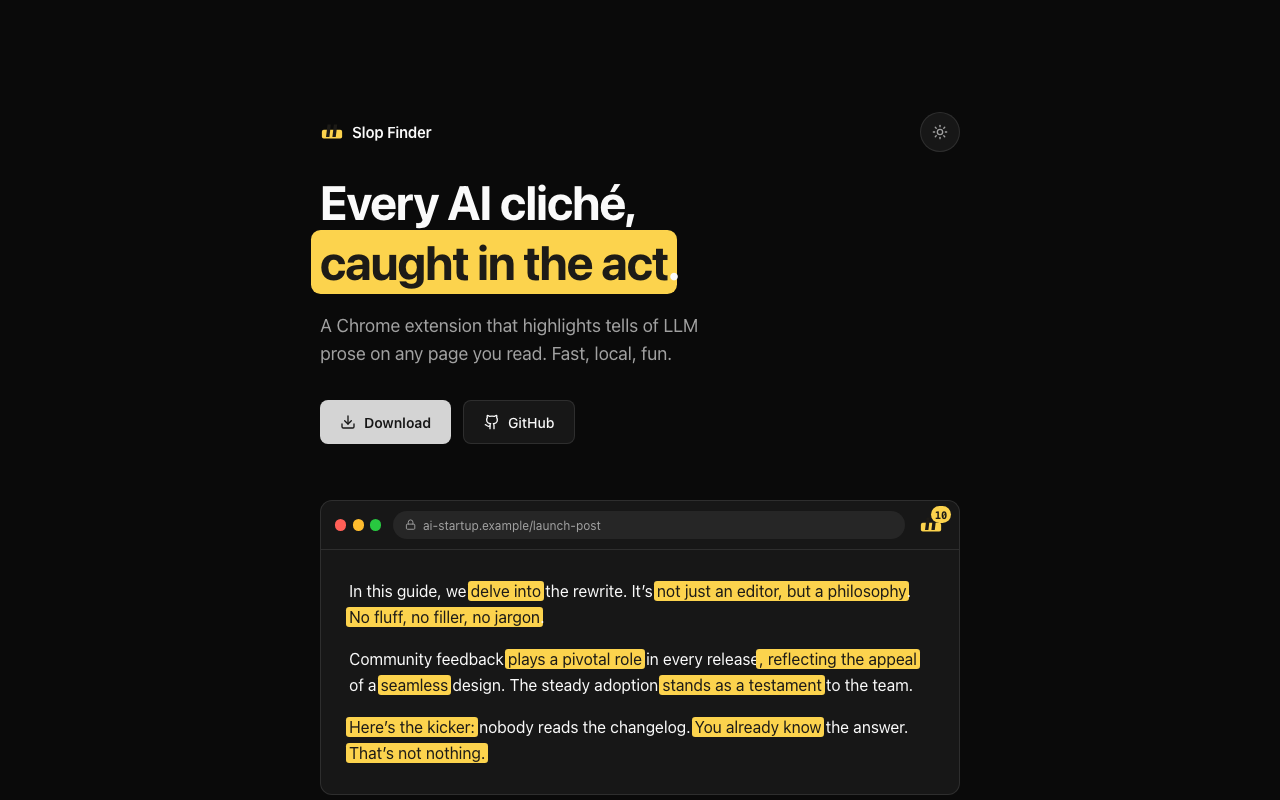
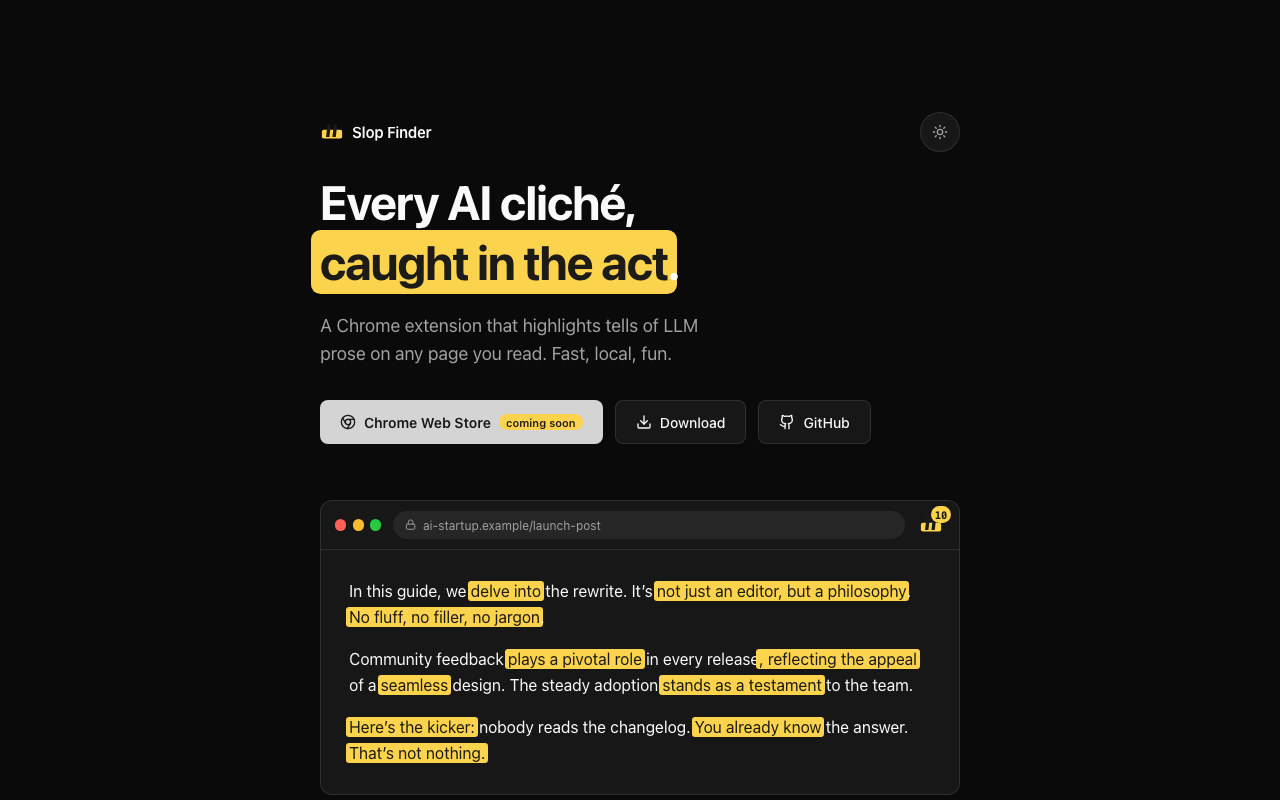
Add Chrome Web Store CTA (temporary preview link, 'coming soon' chip)
Store button becomes the primary CTA with the Chrome icon and a yellow
coming-soon chip; Download drops to secondary alongside GitHub. Swap in
the public listing URL and remove the chip once the listing is live
(tracked in TODO.md). Store landing screenshots regenerated.

Changed region(s): [[0.25, 0.5, 0.5625, 0.5625], [0.5938, 0.5, 0.6562, 0.5625]]

diff --git a/site/index.html b/site/index.html
@@ -195,6 +195,15 @@
     font-weight: 600;
     transition: opacity 0.15s;
   }
+  .cta-chip {
+    background: #fcd34d;
+    color: #1d1b17;
+    font-size: 0.6875rem;
+    font-weight: 600;
+    padding: 0.1rem 0.45rem;
+    border-radius: 9999px;
+    white-space: nowrap;
+  }
   .cta-primary:hover { opacity: 0.9; }
   .cta-secondary {
     border: 1px solid var(--border);
@@ -333,7 +342,14 @@
       you read. Fast, local, fun.
     </p>
     <div class="ctas">
-      <a class="cta cta-primary" href="downloads/slopfinder-extension.zip" download>
+      <!-- Temporary preview link — swap for the public store URL and drop
+           the "coming soon" chip once the listing is live. -->
+      <a class="cta cta-primary" href="https://chromewebstore.google.com/detail/mkgdglaifmndcicghpnkkdmjafepiibc/preview?hl=en&authuser=0" target="_blank" rel="noreferrer">
+        <svg viewBox="0 0 24 24" fill="none" stroke="currentColor" stroke-width="2" stroke-linecap="round" stroke-linejoin="round" aria-hidden="true"><circle cx="12" cy="12" r="10"/><circle cx="12" cy="12" r="4"/><line x1="21.17" x2="12" y1="8" y2="8"/><line x1="3.95" x2="8.54" y1="6.06" y2="14"/><line x1="10.88" x2="15.46" y1="21.94" y2="14"/></svg>
+        Chrome Web Store
+        <span class="cta-chip">coming soon</span>
+      </a>
+      <a class="cta cta-secondary" href="downloads/slopfinder-extension.zip" download>
         <svg viewBox="0 0 24 24" fill="none" stroke="currentColor" stroke-width="2" stroke-linecap="round" stroke-linejoin="round" aria-hidden="true"><path d="M21 15v4a2 2 0 0 1-2 2H5a2 2 0 0 1-2-2v-4"/><polyline points="7 10 12 15 17 10"/><line x1="12" x2="12" y1="15" y2="3"/></svg>
         Download
       </a>

diff --git a/TODO.md b/TODO.md
@@ -36,8 +36,9 @@ zip; swap CTAs to the store listing once approved.
       you read"; justify `storage` (user settings/patterns only); declare
       **no data collected, no remote code** — this keeps review simple
 - [ ] Visibility: Public → Submit for review
-- [ ] After approval: swap the site's Download CTA to the store URL (keep
-      the zip as a fallback link)
+- [ ] After approval: on the site's Chrome Web Store button, swap the
+      temporary preview URL for the public listing URL and remove the
+      "coming soon" chip (the zip Download button stays as fallback)
 
 ## 3. Light marketing (this afternoon, ≈1 hr)
 
